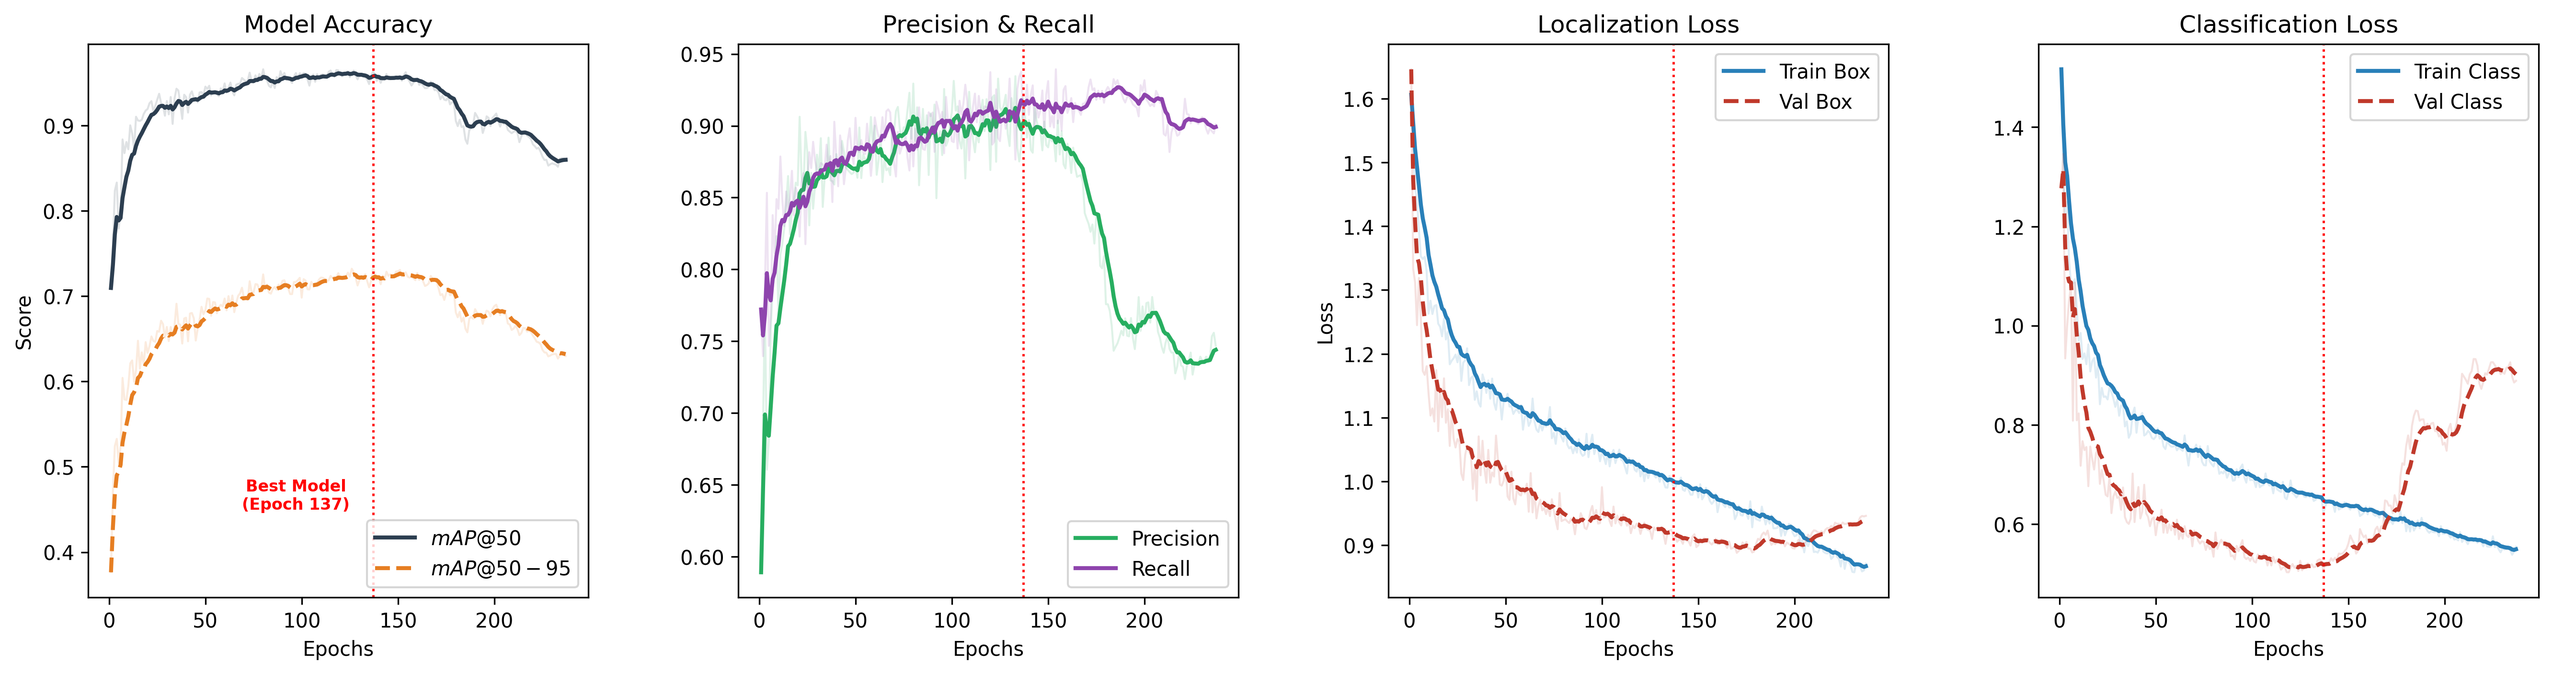
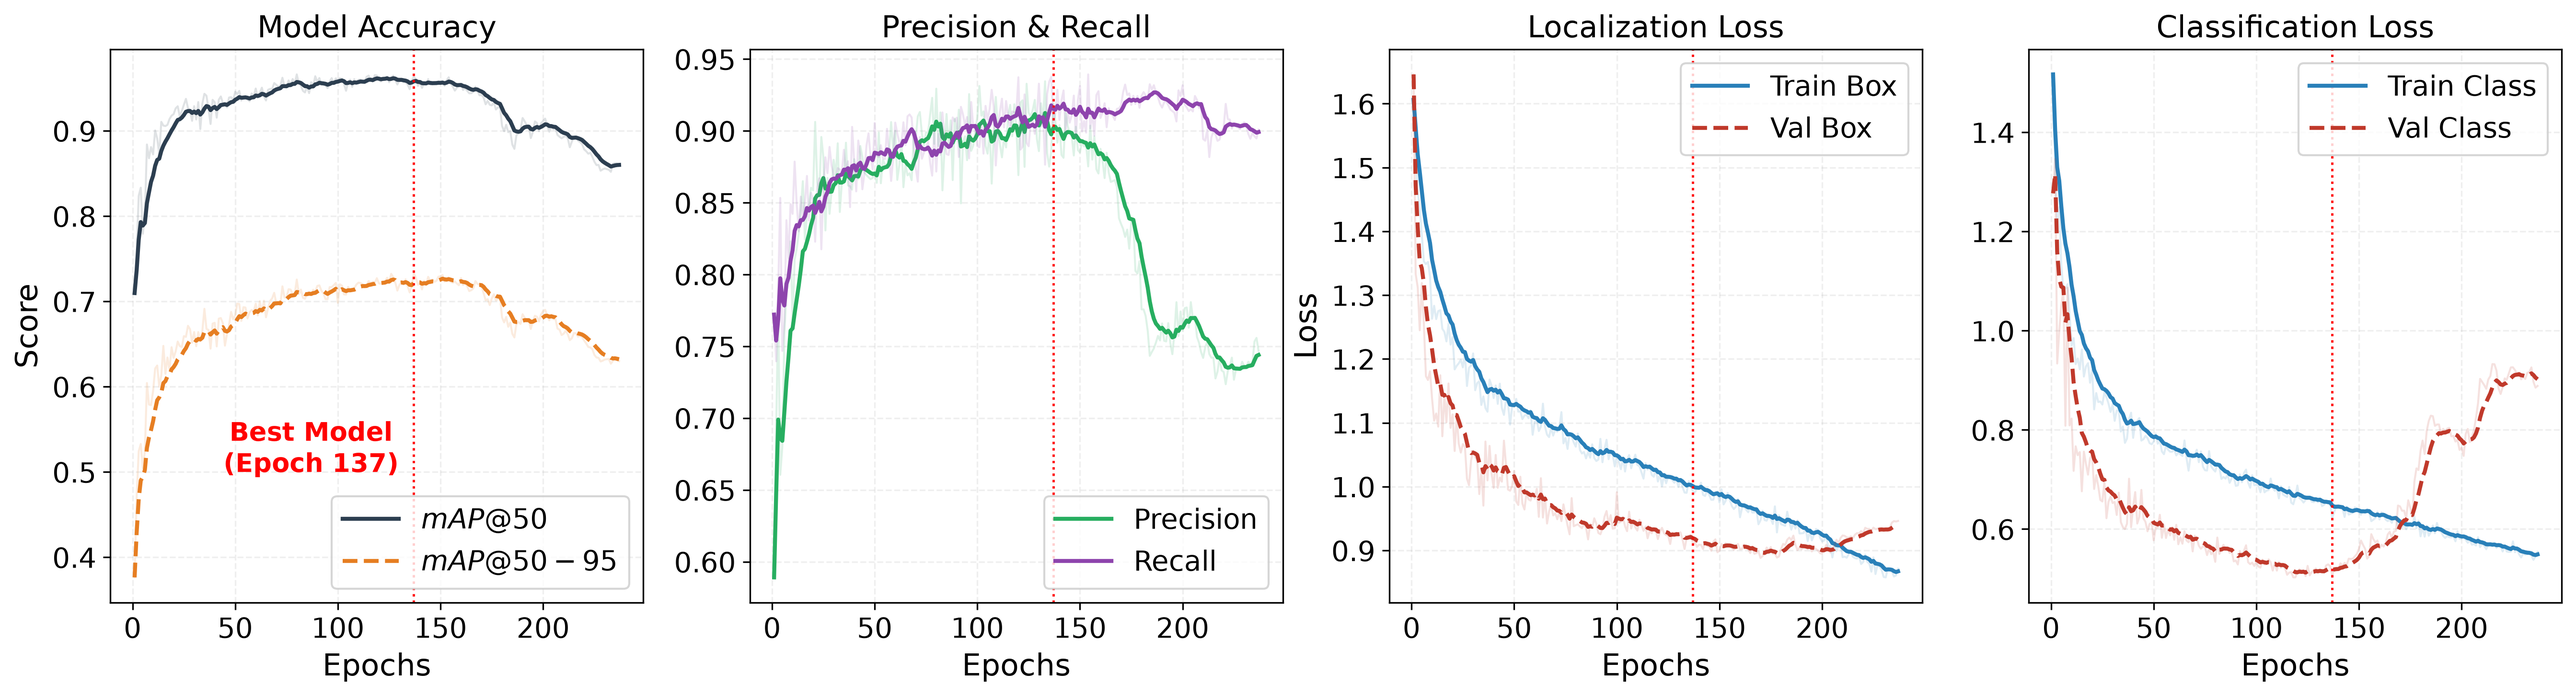
fix: updated images in readme

diff --git a/README.md b/README.md
@@ -302,8 +302,15 @@ notebooks/
 ### Projected Separation Distribution
 
 <p align="center">
-  <img src="figures/proj_sep_arc.png" alt="Distribution of separations between detected nuclei candidates." width="50%">
+  <img src="figures/proj_sep_hist_arcsec.png" alt="Angular centroid-to-centroid separation." width="50%">
+  <img src="figures/proj_sep_hist_kpc.png" alt="Projected physical separation.." width="50%">
 
+</p>
+
+### Least Separation Estimated
+
+<p align="center">
+  <img src="figures/least_sep_arcsec.jpg" alt="objID: 1237660239778021761" width="50%">
 </p>
 
 
